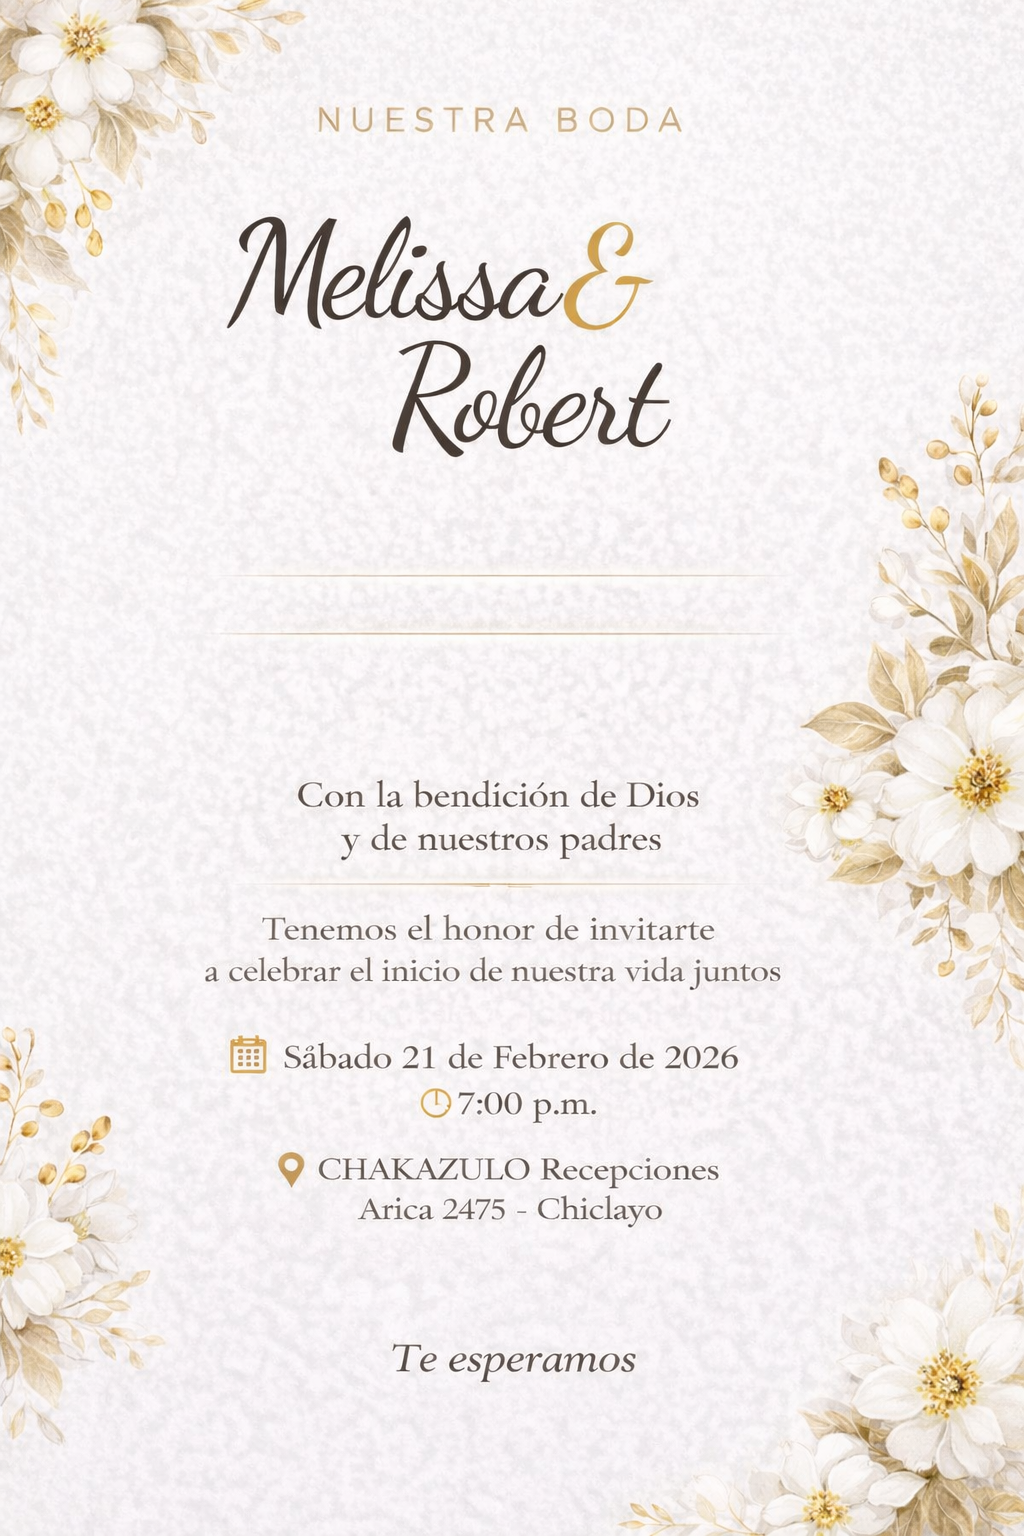
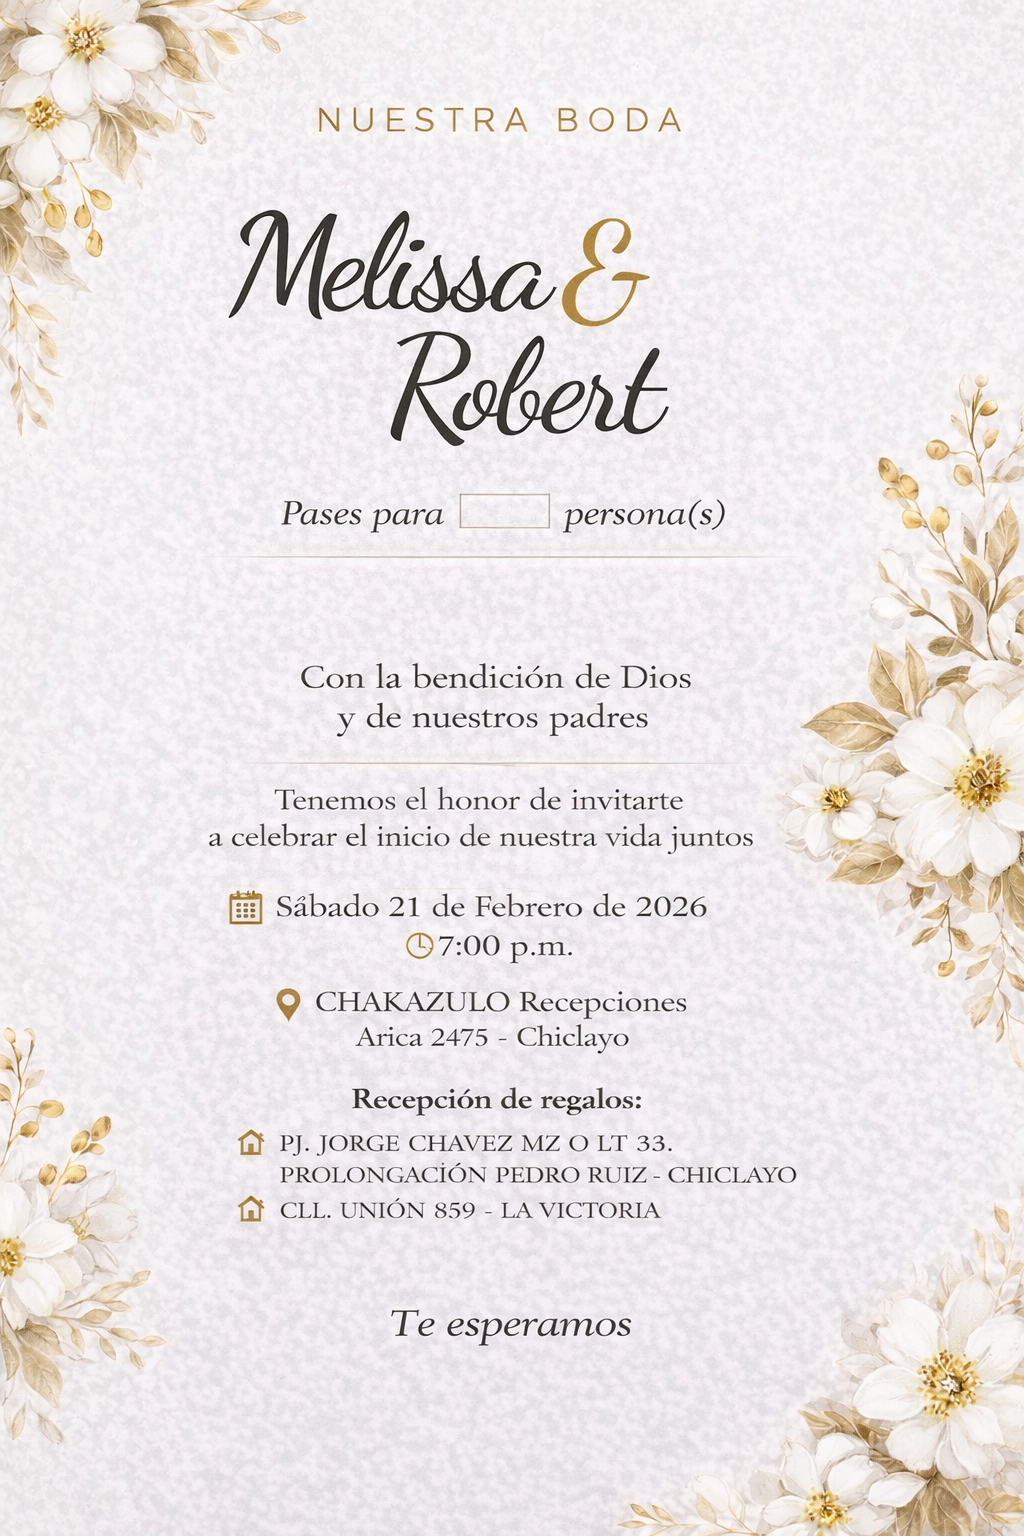
Editar diseño de la invitación

diff --git a/src/App.tsx b/src/App.tsx
@@ -6,8 +6,8 @@ function App() {
   const [numPasses, setNumPasses] = useState('');
   const [nameX, setNameX] = useState(320);
   const [nameY, setNameY] = useState(615);
-  const [passesX, setPassesX] = useState(385);
-  const [passesY, setPassesY] = useState(718);
+  const [passesX, setPassesX] = useState(490);
+  const [passesY, setPassesY] = useState(523);
   const canvasRef = useRef<HTMLCanvasElement>(null);
 
   useEffect(() => {
@@ -28,7 +28,7 @@ function App() {
       // Draw passes
       ctx.font = 'bold 36px "Times New Roman"';
       ctx.fillStyle = 'gold';
-      const label = 'N° PASES: ';
+      const label = '';
       ctx.fillText(label, passesX, passesY);
       const labelWidth = ctx.measureText(label).width;
       ctx.fillStyle = 'black';
